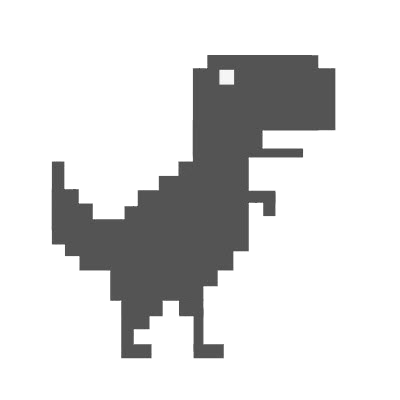
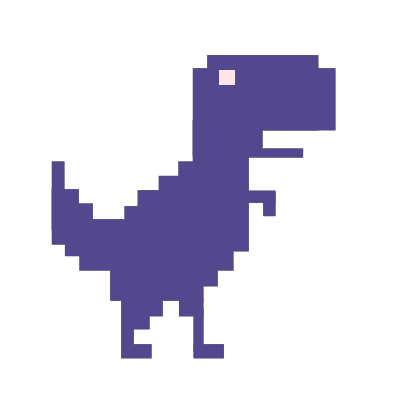
Add files via upload

Changed region(s): [[0.12, 0.12, 0.84, 0.9]]

diff --git a/main.js b/main.js
@@ -1,23 +1,3 @@
-// 게임스타트
-document.addEventListener('keydown',function(e){
-    if ( e.code === 'Enter' ){
-        document.getElementById('intro').style.display = 'none';
-        animation();
-    }
-},{ once : true});
-
-var start = document.getElementById('canvas');
-
-document.addEventListener('keydown', function(e){
-    if ( e.code === 'Enter' ){
-        start.style.display = 'block';
-                window.setTimeout(function(){
-                    start.style.opacity = 1;
-                    start.style.transform = 'scale(1)';
-            },0);
-    }
-});
-
 // document.addEventListener('keydown', function(e){
 //     if ( e.code === 'Enter' ){
 //         start.className = start.className !== 'show' ? 'show' : 'hide';
@@ -115,7 +95,7 @@ var JumpTimer = 0;
 var animationMove;
 
 function animation(){
-
+    
     animationMove = requestAnimationFrame(animation);
     timer++;
     ctx.clearRect(0,0, canvas.width, canvas.height);
@@ -150,13 +130,12 @@ function animation(){
     
     // 캐릭터 점프기능 if문
     if ( Jumping == true ){
-        dino.y -= 8;
-        JumpTimer++;
+            dino.y -= 8;
+            JumpTimer++;
     }
     if ( JumpTimer > 20 ){
         Jumping = false;
         JumpTimer = 0;
-
     }
     if ( Jumping == false ){
         if( dino.y < 200 ){
@@ -164,6 +143,7 @@ function animation(){
         }
     }
     dino.draw();
+    console.log(JumpTimer);
 }
 
 
@@ -180,8 +160,26 @@ function touch( dino, cactus ){
 
 // 캐릭터 점프 addEventListener
 var Jumping = false;
-document.addEventListener('keydown',function(e){
-    if ( e.code === 'Space' ){
-        Jumping = true;
-    }
+    document.addEventListener('keydown',function(e){
+        if ( e.code === 'Space' ){
+            Jumping = true;
+        }
+    });
+
+// 게임스타트
+
+var start = document.getElementById('canvas');
+var startgame = false;
+
+document.getElementById('start').addEventListener('click', function(e){
+    document.getElementById('intro').style.display = 'none';
+    start.style.display = 'block';
+            window.setTimeout(function(){
+                start.style.opacity = 1;
+                start.style.transform = 'scale(1)';
+                startgame = true;
+                if( startgame == true ){
+                    animation();
+                }
+        },0);
 });

diff --git a/index.html b/index.html
@@ -10,13 +10,31 @@
 </head>
 <body>
     <div id="intro">
-
         <div class="p-absolute">
-            <img src="img/introimg.png"/>
-            <h1>Enter키를 눌러 시작하세요!</h1>
+            <img class="bounce" id='start' src="img/introimg.png"/>
+            <h1 class="slideUp">공룡을 클릭해서 시작하세요!</h1>
         </div>
     </div>
-    <canvas id="canvas" style="display:none;"></canvas>
+    <canvas id="canvas" style="display:none;">
+    </canvas>
+    <script src="http://code.jquery.com/jquery-1.10.1.min.js"></script>
+    <script>
+        $(window).scroll(function() {
+            $('#animatedElement').each(function(){
+            var imagePos = $(this).offset().top;
+    
+            var topOfWindow = $(window).scrollTop();
+                if (imagePos < topOfWindow+400) {
+                    $(this).addClass("slideUp");
+                }
+            });
+        });
+
+        $('#animatedElement').click(function() {
+            $(this).addClass("slideUp");
+        });
+    </script>
     <script src="main.js"></script>
+    
 </body>
 </html>

diff --git a/css/custom.css b/css/custom.css
@@ -1,17 +1,17 @@
-
-
 body {
+    background:#53488d;
     margin: 0;
     height: 100vh;
     display: flex;
     align-items: center;
 }
 #canvas{
+    background:#fff;
+    border-radius: 15px;
     opacity: 0;
     transform: scale(0);
     transition: .6s ease opacity,.6s ease transform;
     margin:0 auto;
-    border:1px solid #ccc;
 }
 #intro{
     width:100vw;
@@ -25,17 +25,31 @@ body {
     left: 50%;
     transform: translate(-50%, -50%);
 }
+#start{
+    margin: 0 auto;
+    border:none;
+    padding:10px 30px;
+    border-radius: 15px;
+    font-weight: 600;
+    font-size: 24px;
+    color:#53488d;
+    background:#ffe5e5;
+    cursor: pointer;
+}
+#start:hover{
+    scale: 1.2;
+    transition: 1s all;
+}
 #intro h1{
-    font-size:3em;
-    text-align: center;
-    margin:0;
+    font-size:2.5em;
+    color: #ffe5e5;
 }
 p{
     font-size:1.4em;
     margin-top:10px;
 }
 #intro img{
-    background-color: #dee5ff;
+    background-color: #ffe5e5;
     border-radius: 100%;
     padding: 30px;
     width:200px;
